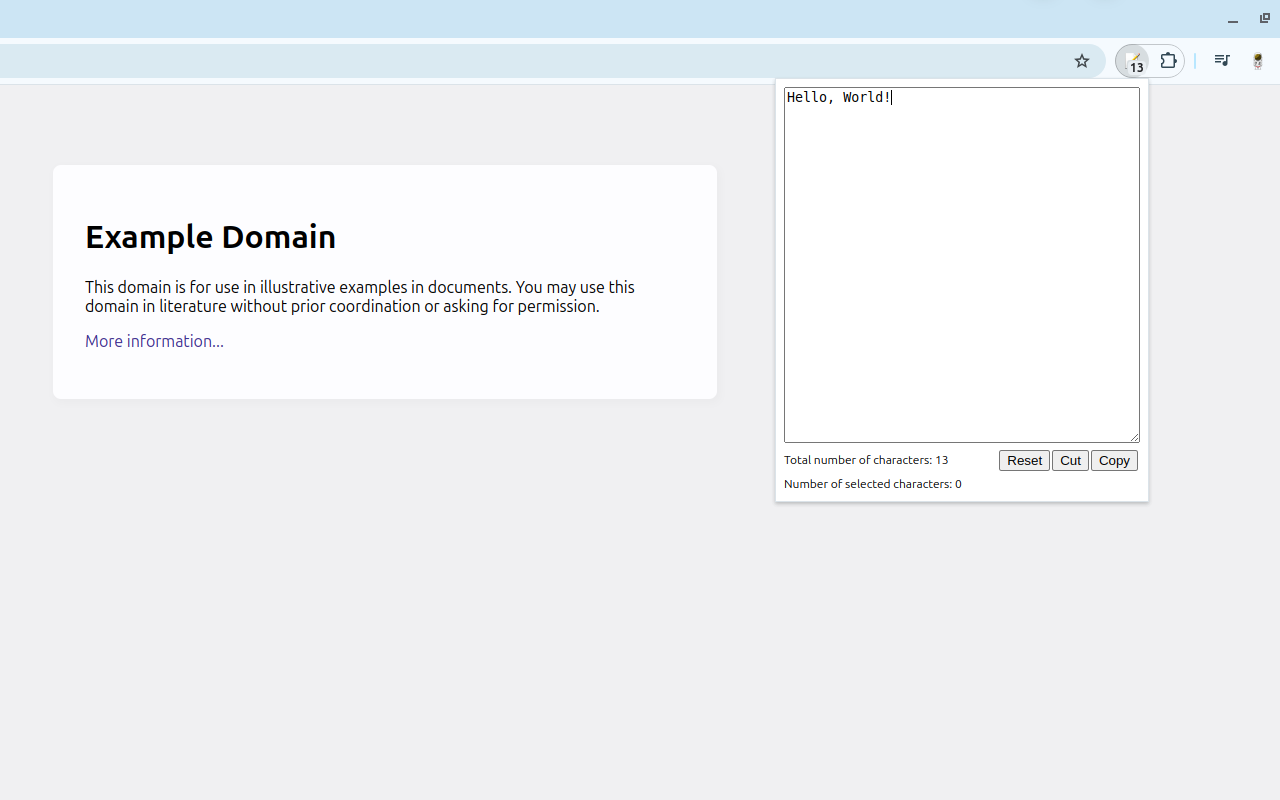
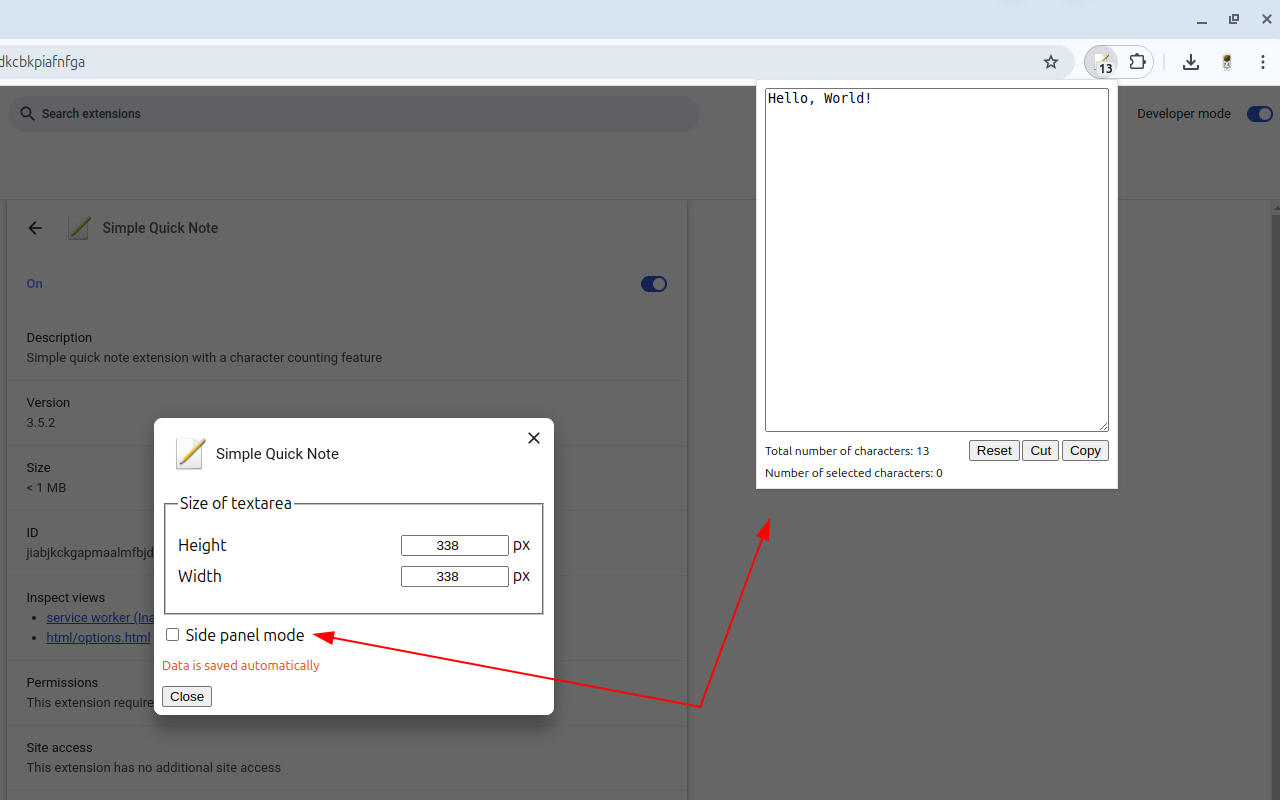
3.5.3: updated screenshots + refactoring

diff --git a/js/common.js b/js/common.js
@@ -1,3 +1,4 @@
+
 const app = {
   // https://is.gd/wPguEm
   // 360 - 8 * 2 (body margins) - 2 * 2 (textarea paddings) - 1 * 2 (textarea border)

diff --git a/js/options.js b/js/options.js
@@ -1,3 +1,4 @@
+
 /* global chrome */
 
 window.addEventListener('DOMContentLoaded', _ => {

diff --git a/js/popup.js b/js/popup.js
@@ -1,3 +1,4 @@
+
 /* global chrome */
 
 window.addEventListener('DOMContentLoaded', _ => {

diff --git a/js/service-worker.js b/js/service-worker.js
@@ -1,3 +1,4 @@
+
 /* global chrome */
 
 chrome.runtime.onInstalled.addListener(

diff --git a/README.md b/README.md
@@ -7,11 +7,7 @@
 
 ![Simple Quick Note - Example: Popup mode](img/screenshots/1280x800/example-1.png)
 
-![Simple Quick Note - Options: Popup mode](img/screenshots/1280x800/options-1.png)
-
 ![Simple Quick Note - Example: Side panel mode](img/screenshots/1280x800/example-2.png)
-
-![Simple Quick Note - Options: Side panel mode](img/screenshots/1280x800/options-2.png)
 
 ## Installation for developers (for Linux users)
 
@@ -19,7 +15,6 @@
 2. Enable `Developer mode` checkbox.
 3. Click on the `Load unpacked` button.
 4. Select the extension directory.
-
 
 ## Sources
 
